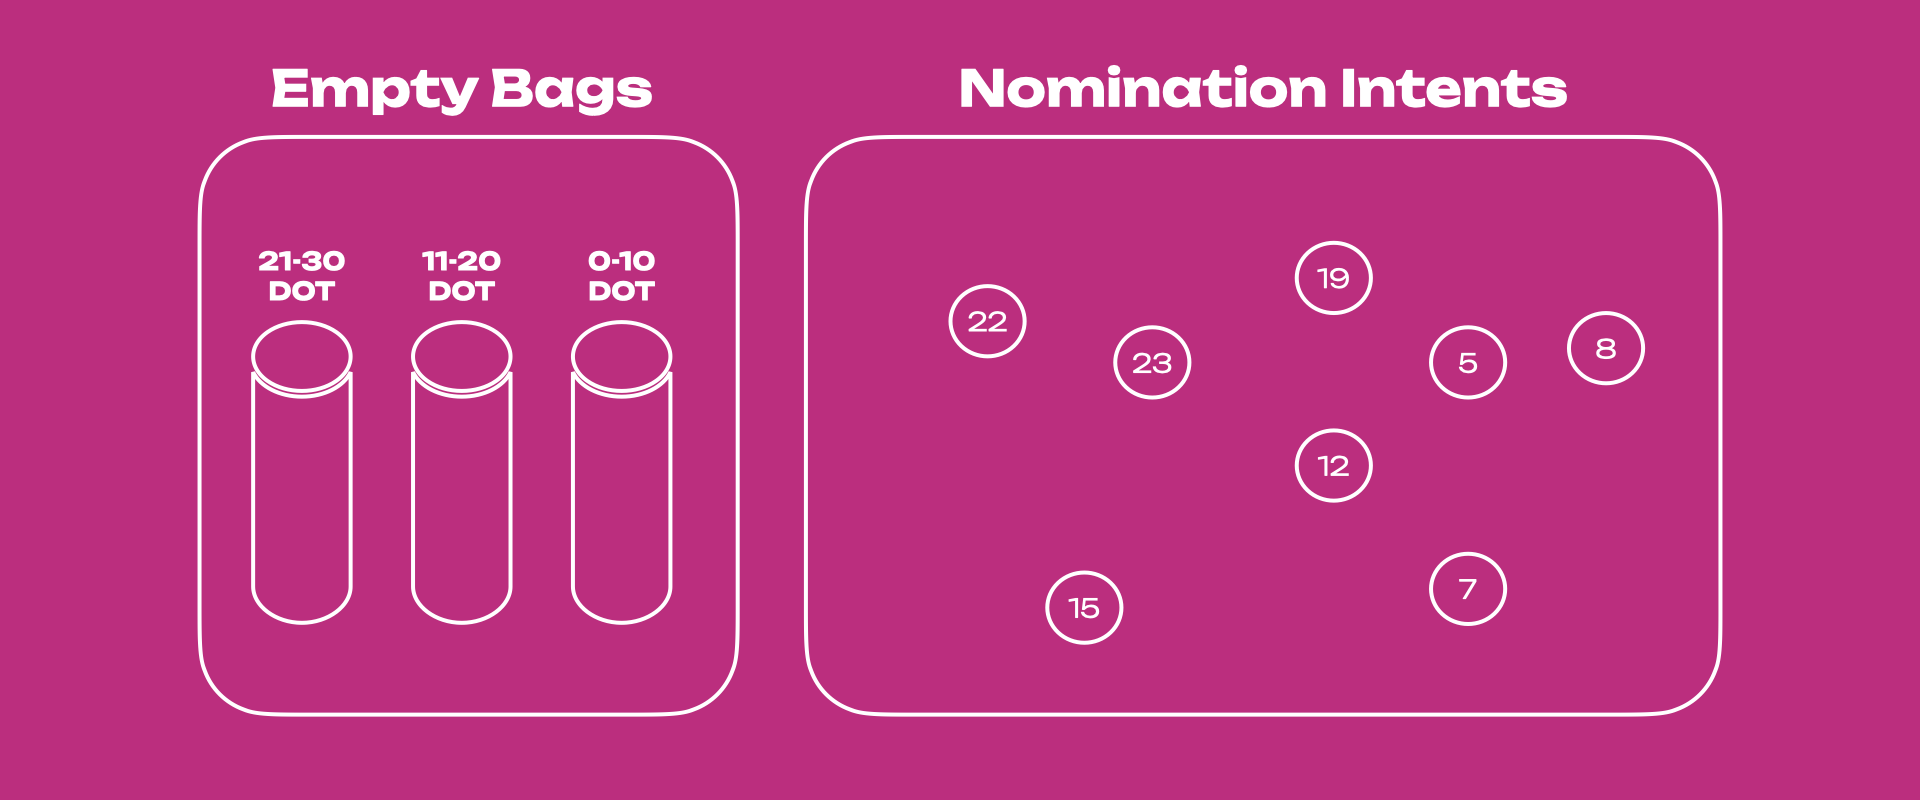
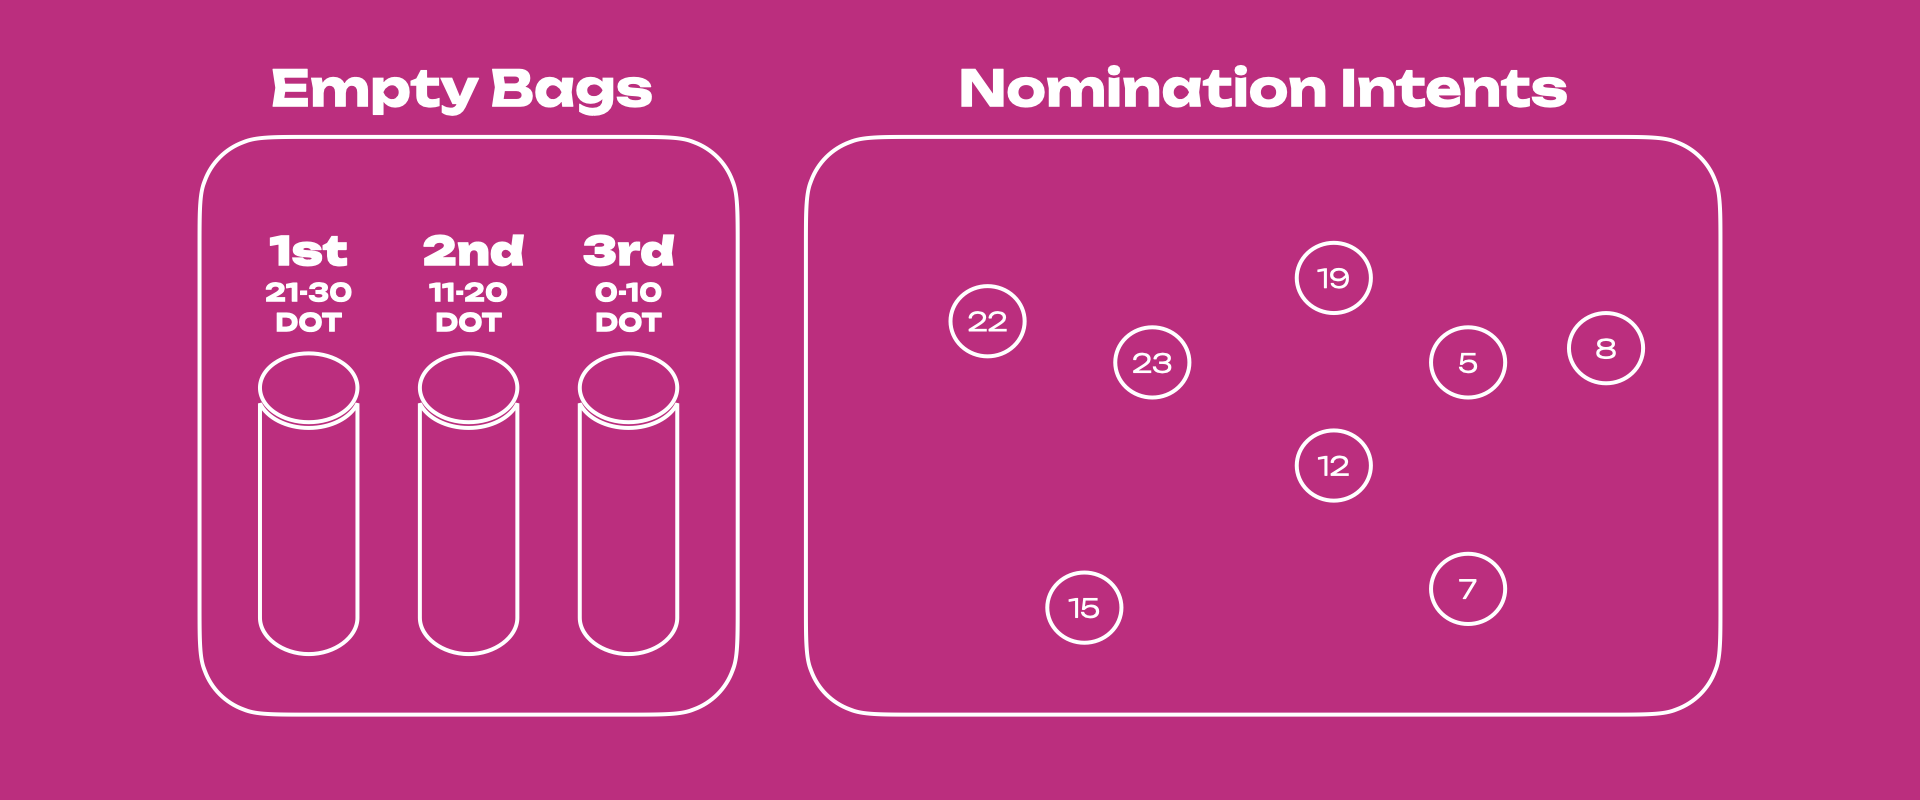
Added bag number to figures
- minor edits to text

Changed region(s): [[0.125, 0.2812, 0.375, 0.8438], [0.3125, 0.8125, 0.3438, 0.8438]]

diff --git a/docs/learn/learn-staking-advanced.md b/docs/learn/learn-staking-advanced.md
@@ -138,12 +138,9 @@ The mentioned two nodes (19 DOT and 8 DOT) have the option to move up in their r
 which can put them in front of the nodes with less stake than them. This action must be done
 manually by submitting the `putInFrontOf` extrinsic within the `voterList` pallet instance.
 Moreover, if the node with 19 DOT bonds an additional 2 DOT, that node will be put automatically in
-the 1st bag because the total number of bonded tokens will now be within the range of the 1st bag
-(see figure below). That node with now 21 DOT will be put at the tail end of the 1st bag with the
+the 1st bag because the total number of bonded tokens will now be within the range of the 1st bag. That node with now 21 DOT will be put at the tail end of the 1st bag with the
 possibility to manually put itself in front of "older" nodes with less than 21 DOT (if there are
 any).
-
-![bags list example 1](../assets/bags-list-example-1.png)
 
 If one decides to send staking rewards to the stash account and automatically bond them (i.e.
 compounding the staking rewards), the position within a bag does not change automatically. The same
